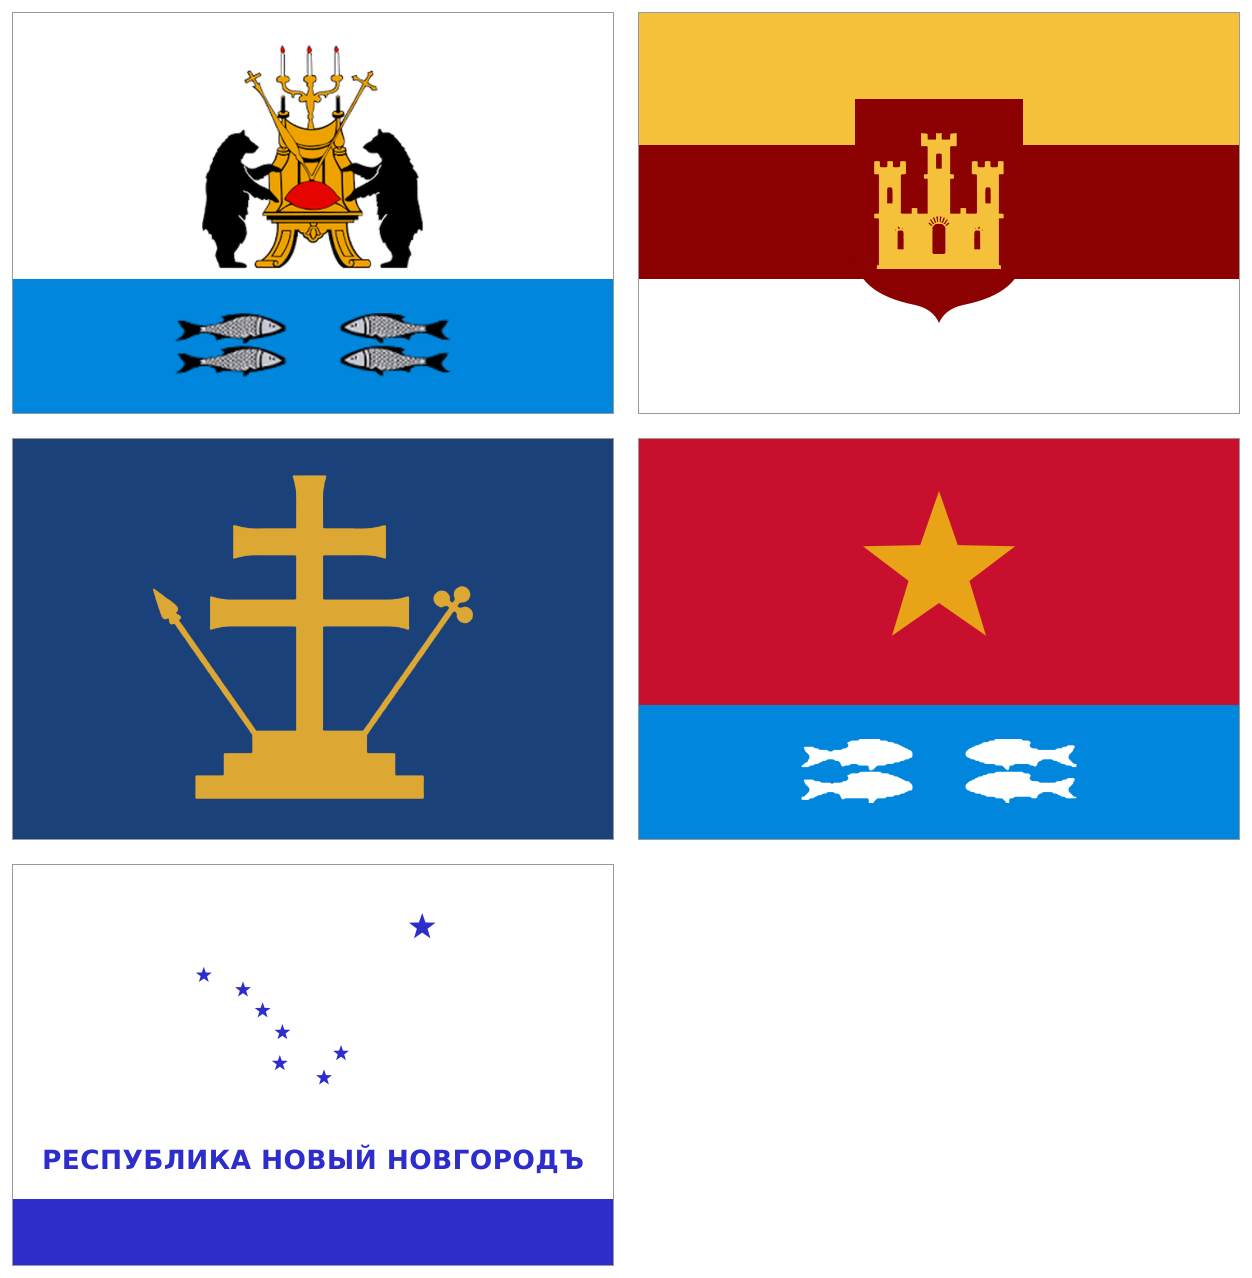
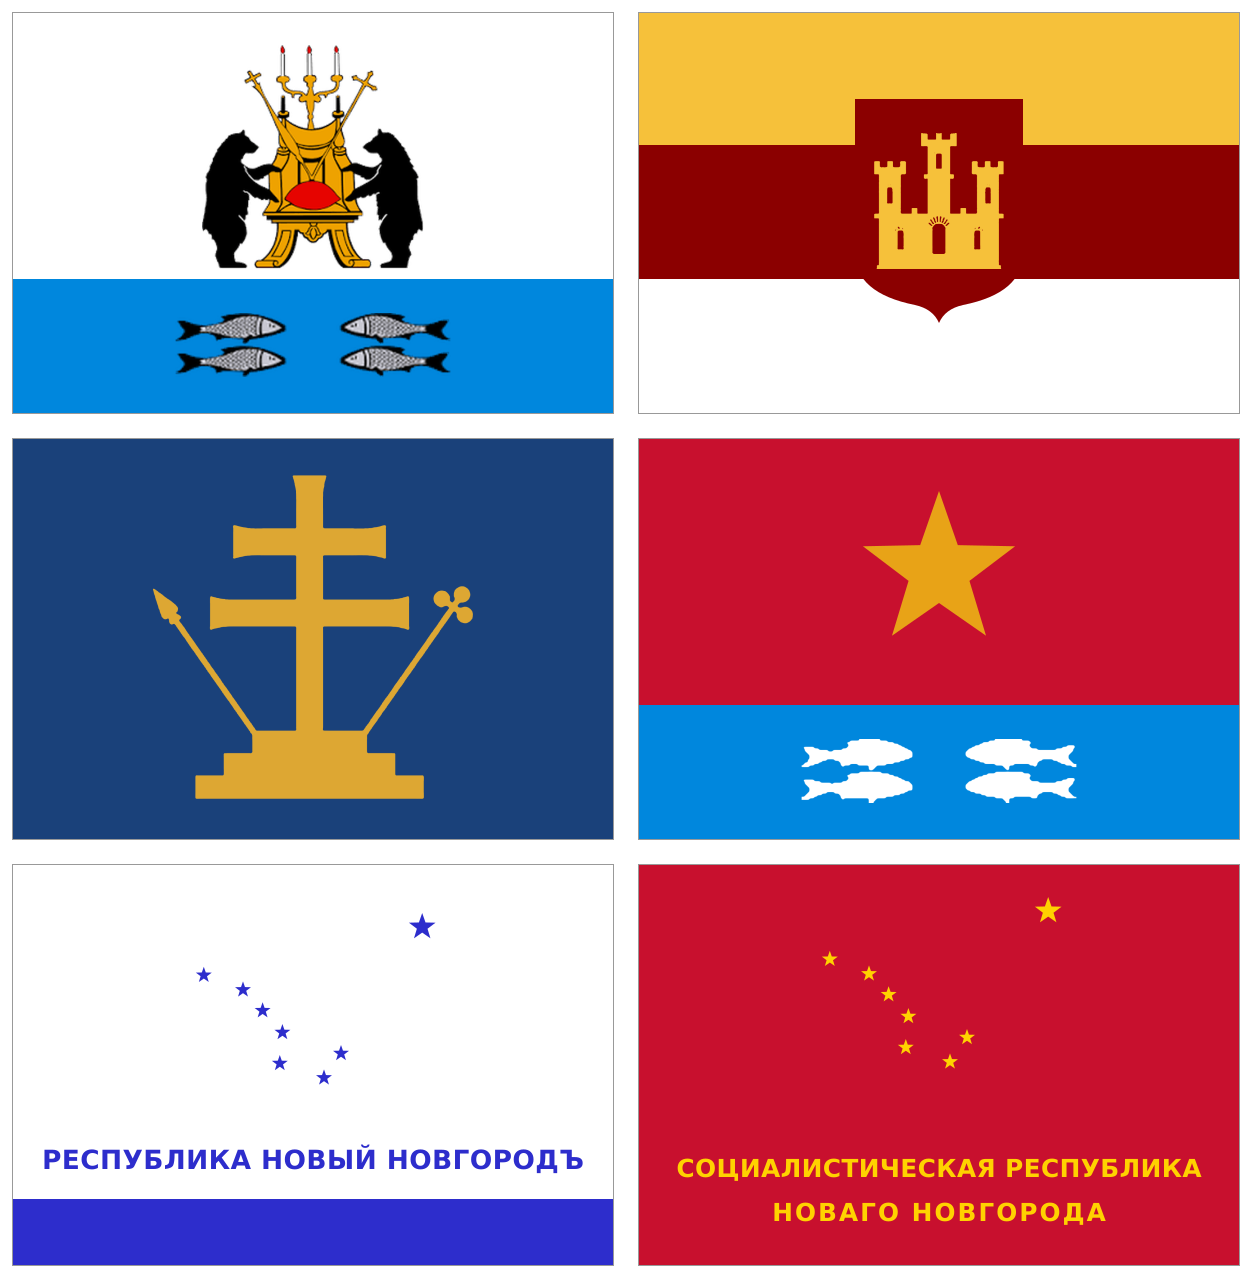
Socjalistyczna Republika Nowego Nowogrodu
Claude-Session: https://claude.ai/code/session_01PNyJEgjZDVeUSFrp2WbnmN

Changed region(s): [[0.4984, 0.6714, 0.9968, 1.0]]

diff --git a/gfx_koncepty/flagi_nowogrod/generuj_flagi.py b/gfx_koncepty/flagi_nowogrod/generuj_flagi.py
@@ -38,6 +38,11 @@ F={
  'nowy_nowogrod': svg(f'<rect width="300" height="200" fill="{WHITE}"/><rect y="167" width="300" height="33" fill="#2d2dcc"/>'
                       +star(95.4,55.1,4.2,'#2d2dcc')+star(115.0,62.4,4.2,'#2d2dcc')+star(124.8,72.8,4.2,'#2d2dcc')+star(134.7,83.7,4.2,'#2d2dcc')+star(133.4,99.2,4.2,'#2d2dcc')+star(155.5,106.4,4.2,'#2d2dcc')+star(164.0,94.2,4.2,'#2d2dcc')+star(204.6,31.0,7,'#2d2dcc')
                       +'<text x="150" y="152" font-family="DejaVu Sans" font-weight="bold" font-size="13.2" fill="#2d2dcc" text-anchor="middle" letter-spacing="0.2">РЕСПУБЛИКА НОВЫЙ НОВГОРОДЪ</text>'),
+ # Socjalistyczna Republika Nowego Nowogrodu: czerwień, żółty Wielki Wóz z Gwiazdą Polarną, żółty napis w ówczesnej pisowni (dopełniacz „Новаго”)
+ 'nowy_nowogrod_rewolucja': svg('<rect width="300" height="200" fill="#c8102e"/>'+star(95.4,47.1,4.2,'#ffd200')+star(115.0,54.4,4.2,'#ffd200')+star(124.8,64.8,4.2,'#ffd200')+star(134.7,75.7,4.2,'#ffd200')+star(133.4,91.2,4.2,'#ffd200')+star(155.5,98.4,4.2,'#ffd200')+star(164.0,86.2,4.2,'#ffd200')+star(204.6,23.0,7,'#ffd200')
+                      +'<g font-family="DejaVu Sans" font-weight="bold" fill="#ffd200" text-anchor="middle">'
+                       '<text x="150" y="156" font-size="12.4" letter-spacing="0.2">СОЦИАЛИСТИЧЕСКАЯ РЕСПУБЛИКА</text>'
+                       '<text x="150" y="178" font-size="12.4" letter-spacing="1">НОВАГО НОВГОРОДА</text></g>'),
  # Republika Pskowska („młodszy brat” Nowogrodu): układ Nowogrodu, biel nad błękitem, lampart pskowski na zielonym wzgórzu
  'psków': svg(f'<rect width="300" height="200" fill="{WHITE}"/><rect y="{YB}" width="300" height="{200-YB}" fill="{BLUE}"/>'+img(LAMP,LPW,LPH,150,72,96)),
  # Wolna Republika Ochocka (Daleki Wschód): biel nad granatem Pacyfiku, złote słońce wschodzące nad horyzontem

diff --git a/gfx_koncepty/flagi_nowogrod/README.md b/gfx_koncepty/flagi_nowogrod/README.md
@@ -16,3 +16,4 @@ Nowogród: prawosławna republika kupiecka od Estonii po Alaskę. Płaskie flagi
 | syberia | Księstwo Syberyjskie (Stroganowowie, Tobolsk): biel nad zielenią, barwy regionalne Syberii. Godło do dodania (sobole z herbu Syberii) |
 
 Podgląd nowych państw (Psków, Ochock, Syberia): [nowe_panstwa.png](nowe_panstwa.png).
+| nowy_nowogrod_rewolucja | Socjalistyczna Republika Nowego Nowogrodu: czerwień, żółty Wielki Wóz z Gwiazdą Polarną, żółty napis *СОЦИАЛИСТИЧЕСКАЯ РЕСПУБЛИКА НОВАГО НОВГОРОДА* (ówczesna pisownia, dopełniacz „Новаго”) |
